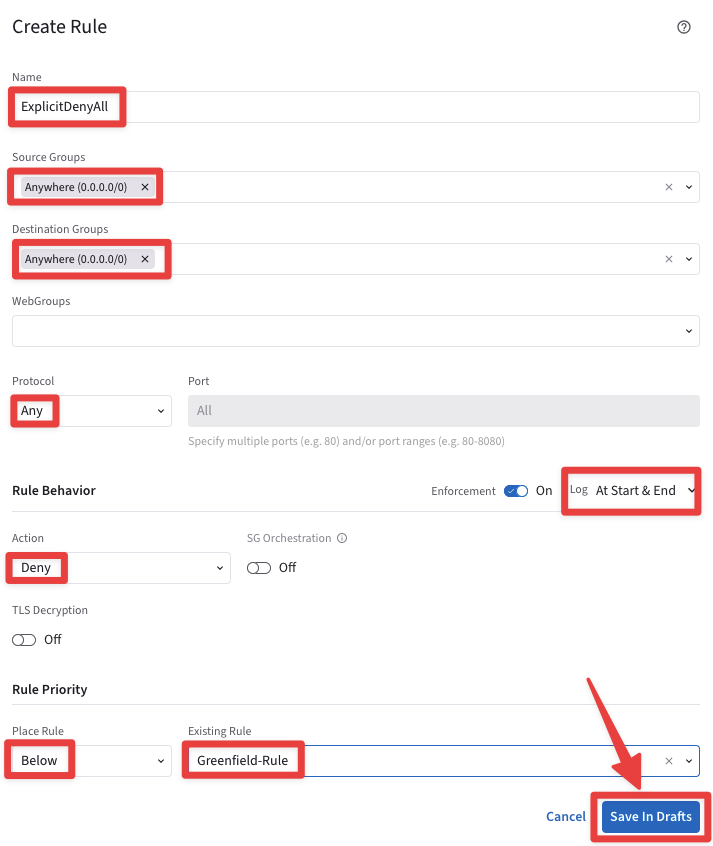
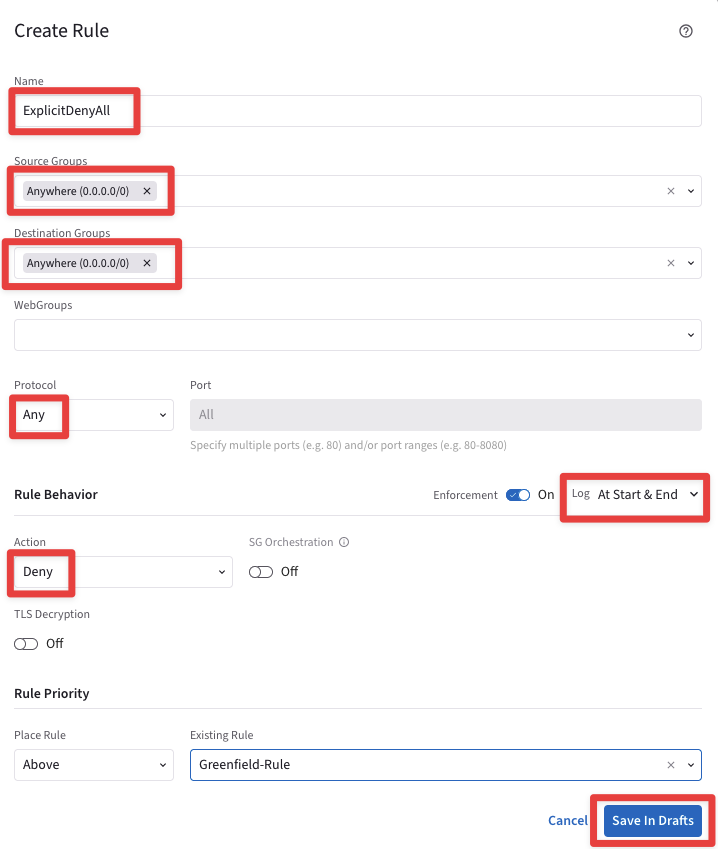
update for ops

diff --git a/ace_ops/docs/lab7.md b/ace_ops/docs/lab7.md
@@ -149,7 +149,7 @@ Ensure these parameters are entered in the pop-up window `"Create New Rule"`:
 - **Protocol**: <span style='color:#479608'>Any</span>
 - **Log**: <span style='color:#479608'>**At Start & End**</span>
 - **Action**: <span style='color:#479608'>**Deny**</span>
-- **Place Rule**: <span style='color:#479608'>Below</span>
+- **Place Rule**: <span style='color:#479608'>Above</span>
   - **Existing Rule**: <span style='color:#479608'>Greenfield-Rule</span>
   
 Do not forget to click on **Save In Drafts**.
@@ -177,10 +177,7 @@ From this point forward, **East–West** traffic will be blocked. You’ll need 
 
 ### 2.2 SmartGroups creation
 
-Create three Smart Groups to identify:
-1) **BU1 Frontend**
-2) **BU1 DB**
-3) **BU2 DB**
+Let's create the Smart Groups:
 
 - Navigate to **CoPilot > Groups > SmartGroups**, then click the `“+ SmartGroup”` button.
 
@@ -305,14 +302,9 @@ The CoPilot shows that there is one instance that perfectly matches the conditio
 
 - **_ace-azure-east-us-spoke2-bu2-db_**
 
+Create another Smart Group by clicking the `“+ SmartGroup”` button.
 
-
-
-
-
-Navigate to **CoPilot > Groups > SmartGroups**, and click  the `“+ SmartGroup”` button.
-
-```{figure} images/lab8-SGnew10.png
+```{figure} images/templab8-SGnew10.png
 ---
 align: center
 ---
@@ -353,7 +345,7 @@ The CoPilot shows that there is one instance that perfectly matches the conditio
 
 Add another Smart Group by tapping the `“+ SmartGroup”` one more time.
 
-```{figure} images/lab8-SGnew20.png
+```{figure} images/templab8-SGnew20.png
 ---
 align: center
 ---
